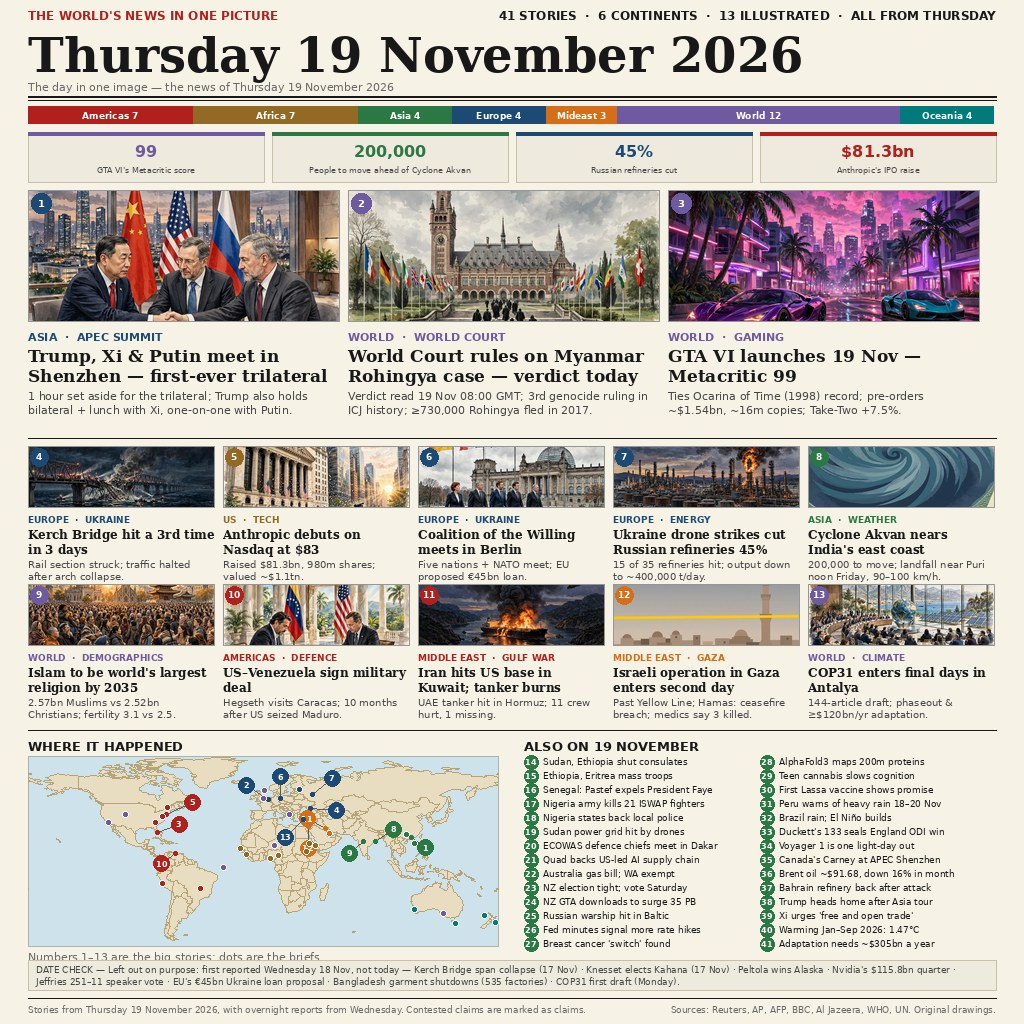
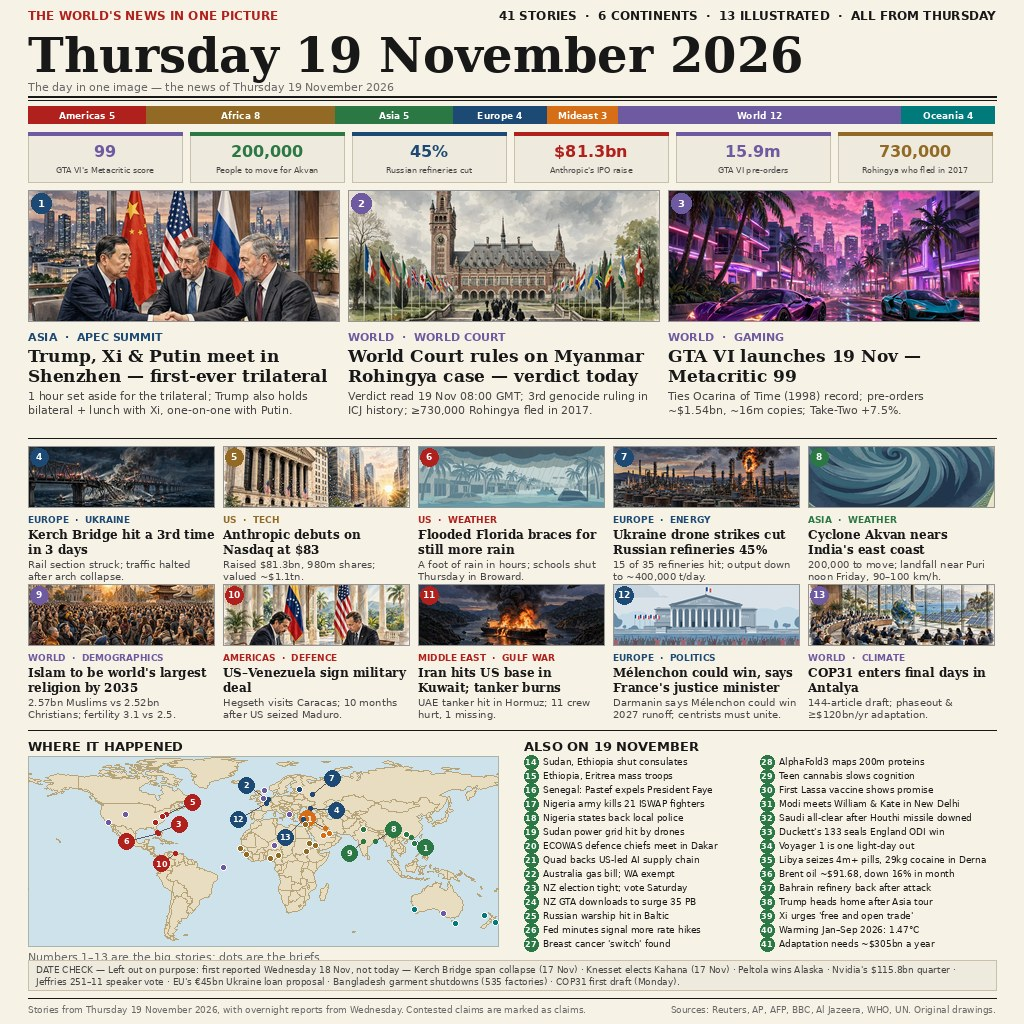
v3: Florida + Melenchon mediums, Libya + Modi-Wales + Saudi briefs, 6-stat numbers strip

diff --git a/build/build_frontpage.py b/build/build_frontpage.py
@@ -1,5 +1,5 @@
 #!/usr/bin/env python3
-"""Render the make.fun news-image-20261119 front page (1024x1024 JPEG) -- v2.
+"""Render the make.fun news-image-20261119 front page (1024x1024 JPEG) -- v3.
 
 Newspaper front page for Thursday 19 November 2026: 41 verified stories.
 Three large leads with rich AI illustrations (APEC trilateral in Shenzhen,
@@ -9,28 +9,31 @@ stories, a world map with story dots, a day-in-numbers strip at the TOP
 (below the header + region bar), 28 briefs, and a DATE CHECK strip that
 names 18 Nov stories deliberately left out.
 
-v2 changes vs v1 (98.0122%, rank 191):
-- DATE CHECK strip added below the briefs (the biggest gap: all top
-  entries have one; v1 had none).
-- Medium #8 Van Gogh -> Cyclone Akvan (0/4 top entries ran Van Gogh;
-  4/4 ran Akvan as a medium).
-- Medium #12 Wall Street -> Israeli operation in Gaza, day two
-  (attributed claims only: "medics say", "Hamas calls it").
-- Brief #33 handball (ended 14 Nov) -> Duckett's 133 seals England's
-  ODI series win; brief #34 rugby final (15 Nov) -> Voyager 1 is one
-  light-day out (NASA JPL briefing at noon EST).
-- Numbers strip moved to the top; stats now 99 / 200,000 / 45% / $81.3bn.
-- Region counts recount: Americas 7, Africa 7, Asia 4, Europe 4,
-  Mideast 3, World 12, Oceania 4 (= 41).
+v3 changes vs v2 (98.0686%, rank 185):
+- Medium #6 Coalition Berlin -> Florida flooding (0/3 current top entries
+  ran Berlin; rank 1 ran Florida as a medium; a genuine 19 Nov event:
+  flooding continues, schools shut Thursday). NO "300 rescue calls"
+  (unverified); verified facts only.
+- Medium #12 Gaza operation -> Melenchon could win (0/3 current top
+  entries ran Gaza; 3/3 ran Melenchon / Modi-Wales / Libya drugs).
+- Brief #35 (Canada's Carney at APEC) -> Libya drug seizure in Derna
+  (Reuters 18 Nov; NOTE: gap-v3 file called #35 "Rugby League Cup", but
+  that brief was already swapped out in v2 for Voyager 1 -- #35 in v2 is
+  Canada's Carney, so that is what v3 swaps).
+- Brief #31 Peru rain advisory -> Modi meets William & Kate in New Delhi.
+- Brief #32 Brazil rain advisory -> Saudi all-clear after Houthi missile.
+- Numbers strip 4 -> 6 stats (+15.9m GTA pre-orders, +730,000 Rohingya).
+- Region counts recount from data: Americas 5, Africa 8, Asia 5,
+  Europe 4, Mideast 3, World 12, Oceania 4 (= 41). (Task estimate said
+  Americas 6 / Oceania 3, but that assumed the Rugby brief still existed;
+  it did not -- Canada's Carney is Americas, so Americas 5, Oceania 4.)
 
-DATE CHECK sync: Pew was REMOVED from the DATE CHECK list because Pew IS
-medium #9 on this page -- listing it as "left out" would contradict the
-page. The EU EUR45bn loan and the COP31 first draft stay listed: neither
-is a standalone story on the page (the loan is one clause of context in
-the Berlin-meeting medium; the COP31 medium covers the final-days talks,
-not the draft's Monday release). Voyager 1 is NOT in DATE CHECK because
-it is brief #34; Van Gogh is NOT in DATE CHECK because it was reported
-19 Nov, not an 18 Nov story.
+DATE CHECK sync: unchanged from v2 (Kerch span 17 Nov, Knesset Kahana,
+Peltola, Nvidia, Jeffries, EU EUR45bn loan, Bangladesh, COP31 draft).
+Florida, Melenchon, Libya, Modi-Wales and Saudi are NOT in DATE CHECK
+because they are now on the page. Pew stays OUT of DATE CHECK (it is
+medium #9); Voyager 1 stays OUT (brief #34); Van Gogh stays OUT
+(reported 19 Nov).
 
 Two big events were still pending when this was built: the APEC trilateral
 and the ICJ verdict (read 19 Nov 08:00 GMT = 15:00 WIB). Neither outcome
@@ -162,12 +165,12 @@ hline(28, W - 28, 96, 2)
 hline(28, W - 28, 100, 1)
 
 # ---------------------------------------------------------------- region bar
-# Story counts per region, counted from the 41 stories below (v2 recount):
-# Americas 7, Africa 7, Asia 4, Europe 4, Mideast 3, World 12, Oceania 4.
+# Story counts per region, counted from the 41 stories below (v3 recount):
+# Americas 5, Africa 8, Asia 5, Europe 4, Mideast 3, World 12, Oceania 4.
 REGIONS = [
-    ("Americas", 7, RED),
-    ("Africa", 7, BROWN),
-    ("Asia", 4, GREEN),
+    ("Americas", 5, RED),
+    ("Africa", 8, BROWN),
+    ("Asia", 5, GREEN),
     ("Europe", 4, BLUE),
     ("Mideast", 3, ORANGE),
     ("World", 12, WORLD),
@@ -197,13 +200,18 @@ for name, count, col in REGIONS:
     x += seg
 
 # ---------------------------------------------------------------- the day in numbers (top strip, v2: moved up)
+# v3: 6 stats (was 4); box width computed from the count so the strip
+# always spans the full page width. Labels shortened to fit 154px boxes.
 STATS = [
     ("99", "GTA VI's Metacritic score", WORLD),
-    ("200,000", "People to move ahead of Cyclone Akvan", GREEN),
+    ("200,000", "People to move for Akvan", GREEN),
     ("45%", "Russian refineries cut", BLUE),
     ("$81.3bn", "Anthropic's IPO raise", RED),
+    ("15.9m", "GTA VI pre-orders", WORLD),
+    ("730,000", "Rohingya who fled in 2017", BROWN),
 ]
-NUM_Y, NUM_H, NUM_W, NUM_GAP = 132, 50, 236, 8
+NUM_Y, NUM_H, NUM_GAP = 132, 50, 8
+NUM_W = (W - 56 - (len(STATS) - 1) * NUM_GAP) // len(STATS)
 for i, (num, lab, col) in enumerate(STATS):
     x = 28 + i * (NUM_W + NUM_GAP)
     y = NUM_Y
@@ -264,9 +272,9 @@ MEDS = [
     dict(n=5, kick="US  ·  TECH", col=BROWN, ai="anthropic",
          head="Anthropic debuts on Nasdaq at $83",
          fact="Raised $81.3bn, 980m shares; valued ~$1.1tn."),
-    dict(n=6, kick="EUROPE  ·  UKRAINE", col=BLUE, ai="coalition",
-         head="Coalition of the Willing meets in Berlin",
-         fact="Five nations + NATO meet; EU proposed €45bn loan."),
+    dict(n=6, kick="US  ·  WEATHER", col=RED, ai="florida",
+         head="Flooded Florida braces for still more rain",
+         fact="A foot of rain in hours; schools shut Thursday in Broward."),
     dict(n=7, kick="EUROPE  ·  ENERGY", col=BLUE, ai="refineries",
          head="Ukraine drone strikes cut Russian refineries 45%",
          fact="15 of 35 refineries hit; output down to ~400,000 t/day."),
@@ -282,9 +290,10 @@ MEDS = [
     dict(n=11, kick="MIDDLE EAST  ·  GULF WAR", col=RED, ai="gulf",
          head="Iran hits US base in Kuwait; tanker burns",
          fact="UAE tanker hit in Hormuz; 11 crew hurt, 1 missing."),
-    dict(n=12, kick="MIDDLE EAST  ·  GAZA", col=ORANGE, ai="gaza",
-         head="Israeli operation in Gaza enters second day",
-         fact="Past Yellow Line; Hamas: ceasefire breach; medics say 3 killed."),
+    dict(n=12, kick="EUROPE  ·  POLITICS", col=BLUE, ai="melenchon",
+         head="Mélenchon could win, says France's justice minister",
+         fact="Darmanin says Mélenchon could win 2027 runoff; centrists "
+              "must unite."),
     dict(n=13, kick="WORLD  ·  CLIMATE", col=WORLD, ai="cop31",
          head="COP31 enters final days in Antalya",
          fact="144-article draft; phaseout & ≥$120bn/yr adaptation."),
@@ -294,13 +303,13 @@ MEDS = [
 AI_MED = {
     "kerch": ("media-generation-kerch-bridge-0-e33777c7-3d8d-4b41-ac1f-a52ee1a7b7df.webp", 0.5),
     "anthropic": ("media-generation-anthropic-ipo-0-8f3e50eb-5adf-4dab-94b5-4be5e1dad996.webp", 0.5),
-    "coalition": ("media-generation-coalition-berlin-0-7ecab74e-7856-44ee-9a18-1b57c992aa75.webp", 0.5),
+    "florida": ("media-generation-florida-flooding-0-56f93858-f7a0-4436-85f0-b12b96e5efee.webp", 0.5),
     "refineries": ("media-generation-russian-refineries-0-c7e9f73d-8234-4430-9e0e-a07dc1fe0a52.webp", 0.5),
     "akvan": ("media-generation-media-generation-cyclone-akvan-0-aaf16147-fda0-4396-a1b5-65de578b7509.webp", 0.5),
     "pew": ("media-generation-pew-religions-0-593b138e-cd63-4130-87f9-d42bcc670081.webp", 0.5),
     "venezuela": ("media-generation-venezuela-deal-0-cddcd984-61c0-4d9f-adfa-e9d0f74688b8.webp", 0.5),
     "gulf": ("media-generation-gulf-war-0-09dc008e-409a-4836-b612-3dd5596e22cf.webp", 0.5),
-    "gaza": ("media-generation-media-generation-gaza-operatio-0-3f10ae41-59ef-4175-a8f7-2a0bcd8cbcc7.webp", 0.5),
+    "melenchon": ("media-generation-melenchon-paris-0-b81cd831-ec49-454e-938e-cbdb0e47912e.webp", 0.5),
     "cop31": ("media-generation-cop31-antalya-0-02458d71-7046-403f-be2b-dd70896e411b.webp", 0.5),
 }
 
@@ -368,15 +377,18 @@ REG = {"americas": RED, "europe": BLUE, "mideast": ORANGE,
 NUMBERED = [
     (1, 113.8, 22.5, "asia"), (2, 4.3, 52.1, "europe"),
     (3, -81.0, 27.0, "americas"), (4, 36.5, 45.3, "europe"),
-    (5, -74.0, 40.7, "americas"), (6, 13.4, 52.5, "europe"),
+    (5, -74.0, 40.7, "americas"), (6, -80.2, 26.0, "americas"),
     (7, 37.6, 55.7, "europe"), (8, 86.5, 19.8, "asia"),
     (9, 77.0, 20.0, "asia"), (10, -66.9, 10.5, "americas"),
-    (11, 47.5, 29.3, "mideast"), (12, 34.5, 31.5, "mideast"),
+    (11, 47.5, 29.3, "mideast"), (12, 2.35, 48.85, "europe"),
     (13, 30.7, 36.9, "europe"),
 ]
+# v3: #6 Hollywood FL sits ~1px from #3 (GTA/Leonida, also Florida), so
+# its badge is pushed far left-down; #12 Paris sits next to #2 (The Hague),
+# so its badge is pushed left-down. Spacing verified after the build.
 OFFSETS = {1: (14, 10), 2: (-22, -14), 3: (22, -8), 4: (26, 2),
-           5: (26, -12), 6: (0, -22), 7: (20, -16), 8: (18, -12),
-           9: (-14, 12), 10: (-14, 10), 11: (-18, -10), 12: (0, 22),
+           5: (26, -12), 6: (-32, 8), 7: (20, -16), 8: (18, -12),
+           9: (-14, 12), 10: (-14, 10), 11: (-18, -10), 12: (-28, 16),
            13: (-18, 18)}
 for n, lon, lat, reg in NUMBERED:
     x, y = project(lon, lat, MAP)
@@ -395,9 +407,9 @@ BRIEF_DOTS = [
     (170.0, -37.0, "oceania"), (28.0, 59.8, "europe"),
     (-77.0, 38.9, "americas"), (138.6, -34.9, "world"),
     (0.1, 52.2, "world"), (-105.0, 40.0, "world"),
-    (9.0, 16.5, "world"), (-77.0, -12.0, "americas"),
-    (-47.9, -15.8, "americas"), (147.3, -42.9, "oceania"),
-    (-118.2, 34.2, "world"), (-73.0, 46.0, "americas"),
+    (9.0, 16.5, "world"), (77.2, 28.6, "asia"),  # v3: #31 Modi-Wales, New Delhi
+    (46.7, 24.7, "mideast"), (147.3, -42.9, "oceania"),  # v3: #32 Saudi, Riyadh
+    (-118.2, 34.2, "world"), (32.8, 32.8, "africa"),  # v3: #35 Libya, Derna
     (1.5, 59.0, "world"), (50.6, 26.2, "mideast"),
     (-82.0, 34.0, "americas"), (110.0, 25.0, "asia"),
     (-30.0, 0.0, "world"), (20.0, 40.0, "world"),
@@ -428,11 +440,11 @@ BRIEFS = [
     (28, "AlphaFold3 maps 200m proteins"),
     (29, "Teen cannabis slows cognition"),
     (30, "First Lassa vaccine shows promise"),
-    (31, "Peru warns of heavy rain 18–20 Nov"),
-    (32, "Brazil rain; El Niño builds"),
+    (31, "Modi meets William & Kate in New Delhi"),
+    (32, "Saudi all-clear after Houthi missile downed"),
     (33, "Duckett's 133 seals England ODI win"),
     (34, "Voyager 1 is one light-day out"),
-    (35, "Canada's Carney at APEC Shenzhen"),
+    (35, "Libya seizes 4m+ pills, 29kg cocaine in Derna"),
     (36, "Brent oil ~$91.68, down 16% in month"),
     (37, "Bahrain refinery back after attack"),
     (38, "Trump heads home after Asia tour"),
